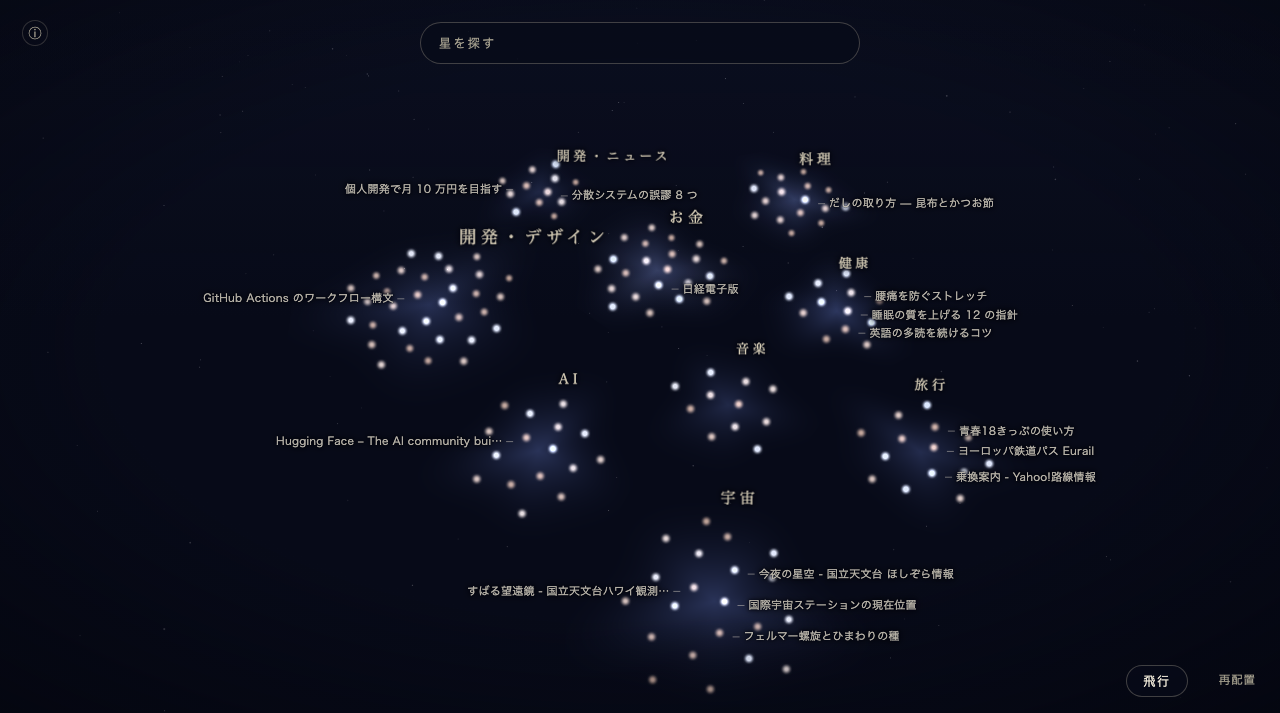
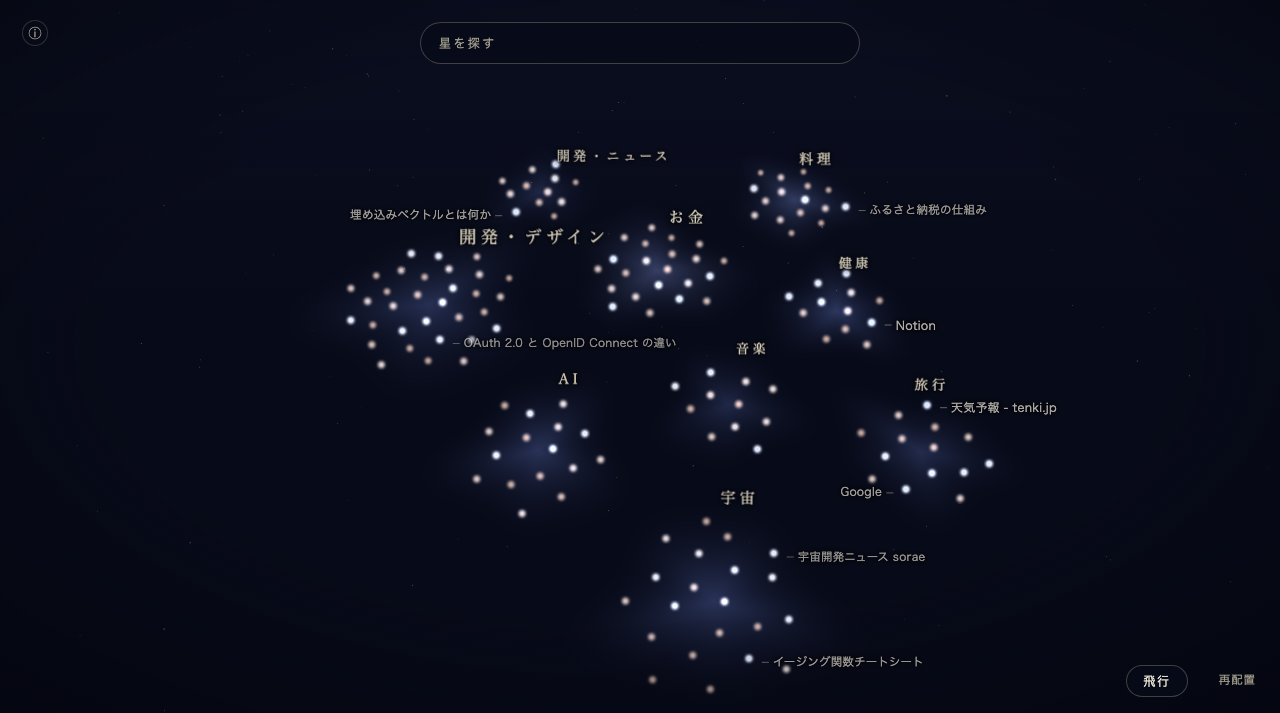
feat(labels): prioritize recent bookmarks in map labels

diff --git a/src/render/scene.ts b/src/render/scene.ts
@@ -14,6 +14,7 @@ import { FlightFarLabels } from "../ui/flight-far-labels";
 import { flightHeights } from "../layout/lift";
 import { ConstellationLayer, type DrawnConstellation } from "./constellations";
 import type { ConstellationPoint } from "../constellation";
+import { recency } from "./magnitude";
 
 /** 星に入る（SPEC 13 章）：芯の半径、突入の演出の長さ、開いた後の押し戻しと、同じ星に反応しない時間。
  *  半径と押し戻しは、広げた空間（FLIGHT_SCALE 倍）の単位 */
@@ -63,7 +64,7 @@ function boundsOf(stars: { x: number; y: number }[], fallback: number) {
 
 export type LabelSource = {
   clusters: { index: number; name: string; x: number; y: number; radius: number; count: number }[];
-  stars: { id: string; title: string; url: string; x: number; y: number; cluster: number; rank: number }[];
+  stars: { id: string; title: string; url: string; x: number; y: number; cluster: number; rank: number; touched?: number }[];
 };
 
 export class SpaceView {
@@ -85,6 +86,7 @@ export class SpaceView {
   private fitDistance = 90;
   private labelSource: LabelSource = { clusters: [], stars: [] };
   private labelsDirty = true;
+  private hoveredMapId: string | null = null;
   private lastLabelMotion = 0;
   private lastLabelTier: ZoomTier | null = null;
   private readonly lastLabelCamera = new THREE.Matrix4();
@@ -787,6 +789,11 @@ export class SpaceView {
 
   hoverStar(id: string | null): void {
     this.hoveredId = id && this.searchIds.includes(id) ? id : null;
+    const next = this.searchIds.length ? null : id;
+    if (this.hoveredMapId !== next) {
+      this.hoveredMapId = next;
+      this.labelsDirty = true;
+    }
   }
 
   traceGeometry(): { tails: number; fullLines: number; maxTailPixels: number; startAlpha: number; endAlpha: number } {
@@ -1441,15 +1448,26 @@ export class SpaceView {
       });
     }
 
-    const limit = tier === "mid" ? 4 : Infinity;
     const emphasized = this.emphasisIds;
+    const plainMap = !this.searchIds.length && !emphasized.size;
+    // 中距離では等級の高い星を星団ごとに選ぶ。日時不明の星は近距離かホバーで読める。
+    const midBright = new Set<string>();
+    if (plainMap && tier === "mid") {
+      for (const c of this.labelSource.clusters) {
+        this.labelSource.stars.filter((s) => s.cluster === c.index && recency(s.touched) > 0.55)
+          .sort((a, b) => recency(b.touched) - recency(a.touched) || a.rank - b.rank || a.id.localeCompare(b.id))
+          .slice(0, 2).forEach((s) => midBright.add(s.id));
+      }
+    }
     if (this.searchIds.length || tier !== "far" || emphasized.size) {
       const searchRank = new Map(this.searchIds.map((id, i) => [id, i]));
       for (const s of this.labelSource.stars) {
         // 星座の星のタイトルは、拡大率や検索に関係なく出す
         const star = emphasized.has(s.id);
         if (!star && this.searchIds.length && !searchRank.has(s.id)) continue;
-        if (!star && !this.searchIds.length && (tier === "far" || s.rank >= limit)) continue;
+        if (!star && !this.searchIds.length && (tier === "far" ||
+          (plainMap && tier === "mid" && !midBright.has(s.id) && s.id !== this.hoveredMapId) ||
+          (!plainMap && tier === "mid" && s.rank >= 4))) continue;
         const displayed = this.searchIds.length ? this.field.displayPosition(s.id) : null;
         const at = project(displayed?.x ?? s.x, displayed?.y ?? s.y);
         if (!at) continue;
@@ -1463,9 +1481,13 @@ export class SpaceView {
           kind: "star",
           // 星座の星を最優先。それ以外は暗くする
           priority: star ? -3000 + s.rank
-            : this.searchIds.length ? (searchRank.get(s.id) ?? 99) - 100 : s.rank,
+            : this.searchIds.length ? (searchRank.get(s.id) ?? 99) - 100
+              : plainMap && s.id === this.hoveredMapId ? -2000
+                : plainMap ? (1 - recency(s.touched)) * 100 + s.rank * 0.01 : s.rank,
           dim: emphasized.size > 0 && !star,
           searchRank: this.searchIds.length ? searchRank.get(s.id) : undefined,
+          fontSize: plainMap ? Math.round((10 + 2 * recency(s.touched)) * 10) / 10 : undefined,
+          opacity: plainMap ? 0.4 + 0.6 * recency(s.touched) : undefined,
           cluster: s.cluster,
           side: this.searchIds.length ? (at.sx >= size.x / 2 ? "right" : "left") : !own || s.x >= own.x ? "right" : "left",
         });

diff --git a/src/ui/labels.ts b/src/ui/labels.ts
@@ -19,6 +19,8 @@ export type PlacedLabel = {
   centered?: boolean;
   /** 文字の大きさ（px）。星団名は件数に応じて変える。無ければ種類の既定値 */
   fontSize?: number;
+  /** 通常の地図で、最終利用日に応じたタイトルの濃さ */
+  opacity?: number;
   /** 星座を強調しているとき、星座以外のタイトルを暗くする */
   dim?: boolean;
 };
@@ -118,8 +120,11 @@ export class LabelLayer {
             : { l: item.sx + OFFSET_X, t, r: item.sx + OFFSET_X + w, b: t + h };
 
       if (labelBoxes.some((p) => overlaps(p, box))) continue;
+      // 実際の DOM は日本語と英数字の混在で canvas の測定より広くなることがある。
+      // 星団の境界には余白を取り、描画後の帯が隣の星雲へ入らないようにする。
+      const circleBox = { l: box.l - 20, t: box.t - 4, r: box.r + 20, b: box.b + 4 };
       if (item.kind === "star" && item.priority > -3000 &&
-        circles.some((c) => c.cluster !== item.cluster && entersCircle(box, c))) continue;
+        circles.some((c) => c.cluster !== item.cluster && entersCircle(circleBox, c))) continue;
 
       labelBoxes.push(box);
       shown.push({ item, text: shortened, box });
@@ -189,7 +194,7 @@ export class LabelLayer {
       // 省略したものだけ、マウスを乗せたら全文を出す
       el.style.pointerEvents = "auto";
       el.style.transform = `translate3d(${box.l.toFixed(1)}px, ${box.t.toFixed(1)}px, 0)`;
-      const opacity = item.dim ? "0.3" : "1";
+      const opacity = item.dim ? "0.3" : this.hovered === item.key ? "1" : String(item.opacity ?? 1);
       if (fresh) requestAnimationFrame(() => { if (this.active.some(({ item: active }) => active.key === item.key)) el.style.opacity = opacity; });
       else el.style.opacity = opacity;
     });
@@ -202,6 +207,8 @@ export class LabelLayer {
     this.hovered = key;
     this.onHover?.(key);
     el.classList.add("is-hovered");
+    const hovered = this.active.find(({ item }) => item.key === key);
+    if (hovered?.item.opacity != null) el.style.opacity = "1";
     const full = this.fullText.get(key) ?? "";
     el.textContent = full;
     // 左側のタイトルは右端（星の側）を固定して、全文を左へ伸ばす。星の上にかぶらないように
@@ -219,6 +226,7 @@ export class LabelLayer {
     if (entry) {
       el.textContent = entry.text;
       entry.width = entry.baseWidth;
+      el.style.opacity = entry.item.dim ? "0.3" : String(entry.item.opacity ?? 1);
     }
     this.hovered = null;
     this.onHover?.(null);

diff --git a/src/render/present.ts b/src/render/present.ts
@@ -29,7 +29,8 @@ export function toLabelSource(layout: Layout, byId: Map<string, BookmarkItem>): 
     })),
     stars: layout.stars.flatMap((s) => {
       const item = byId.get(s.id);
-      return item ? [{ id: s.id, title: item.title, url: item.url, x: s.x, y: s.y, cluster: s.cluster, rank: s.rank }] : [];
+      return item ? [{ id: s.id, title: item.title, url: item.url, x: s.x, y: s.y,
+        cluster: s.cluster, rank: s.rank, touched: lastTouched(item) }] : [];
     }),
   };
 }

diff --git a/docs/PLAN.md b/docs/PLAN.md
@@ -247,7 +247,7 @@ M6 は 4 番目に移した。各段階の終わりに `npm run build` と `npm 
 - [x] サンプルの明るさに自然なばらつきがあり、最近使ったものが明るい
       （最近 45 件（うち毎日使う入口ページ 12）、数か月前 54、1 年以上前 24、最終利用日なし 33）。
 
-## 2 — 星の等級
+## 2 — 星の等級（最後に触れた日とラベルまで対応。案 3 の追加演出は未着手）
 
 やること
 - 「最後に触れた日」（`dateLastUsed`、無ければ `dateAdded`、どちらも無ければ中間）で、星の**明るさ・大きさ・
@@ -255,9 +255,9 @@ M6 は 4 番目に移した。各段階の終わりに `npm run build` と `npm 
 - `docs/DESIGN.md` の案 3（芯を鋭く、等級の差）をここで実装する。明るさ＝最近使ったか、という意味は変えない。
 
 完了条件（画面で確認）
-- [ ] 最近触れた星ほど明るく大きく、色が僅かに鮮やかで、タイトルも目立つ。古い星は控えめだが読める。
-- [ ] 値の無い星は中間で、「未使用」に見えない。
-- [ ] 2000 件で 60 コマ/秒を保つ。
+- [x] 最近触れた星ほど明るく大きく、色が僅かに鮮やかで、タイトルも目立つ。古い星は控えめだが読める。
+- [x] 値の無い星は中間で、「未使用」に見えない。
+- [x] 2000 件で 60 コマ/秒を保つ。
 
 ## 3a — 飛行モード（基本） — **2026-09-26 完了**（計画を変え、段階 2 より先に行った）
 

diff --git a/docs/SPEC.md b/docs/SPEC.md
@@ -107,9 +107,10 @@
 - 遠：星団の名前のみ。
 - 星団名をクリックすると（どの拡大率でも）、約 0.6 秒でその星団の中心へ移る。
   中距離より遠ければ中距離まで寄り、それより近ければ今の拡大率を保つ。
-- 中：各星団の代表の星（螺旋の内側3〜5個）のタイトル。
-- 近：すべてのタイトル。
+- 中：各星団で最近触れた明るい星のタイトルを優先し、暗い星のタイトルはホバー時だけ出す。
+- 近：すべてのタイトルを候補にする。
 - タイトルはHTMLの重ね表示で描き、重要度の高い順に、重なるものを間引く。同時表示は60件程度を上限とする。
+- 地図のタイトルは星の明るさに合わせて文字の大きさと不透明度を変える。星座の星の優先表示と検索中のタイトルはそのままにする。
 
 ### 明るさ
 - `BookmarkTreeNode.dateLastUsed`（Chrome 114以降）が新しいほど明るい。値がない場合は中間の明るさにし、「未使用」と断定しない。

diff --git a/docs/DESIGN.md b/docs/DESIGN.md
@@ -40,7 +40,7 @@
   日数の対数で測り、約 2 年以上前でいちばん冷えた色。どちらの日時も無い星は中間の生成り色で、「未使用」と断定しない。
   彩度は低く抑え（青白 0.42・橙 0.45）、上品な範囲にとどめる。id には依存しない（同じ日時なら同じ見た目）。
   星団ごとの色分けはしない。金は使わない。地図と飛行モードの両方に効く（`StarField.setAppearance`）。
-  ラベルの目立ち方を最後に触れた日で変えるのは、段階 2 の残り。
+  地図のタイトルも同じ新しさで文字サイズと不透明度を変える。中距離は明るい星を優先し、暗い星はホバーか近距離で読む。
 - 例外として、ブラックホールの青（ネオン）が残っている。案 4 で直す。
 
 ## 書体の規則
